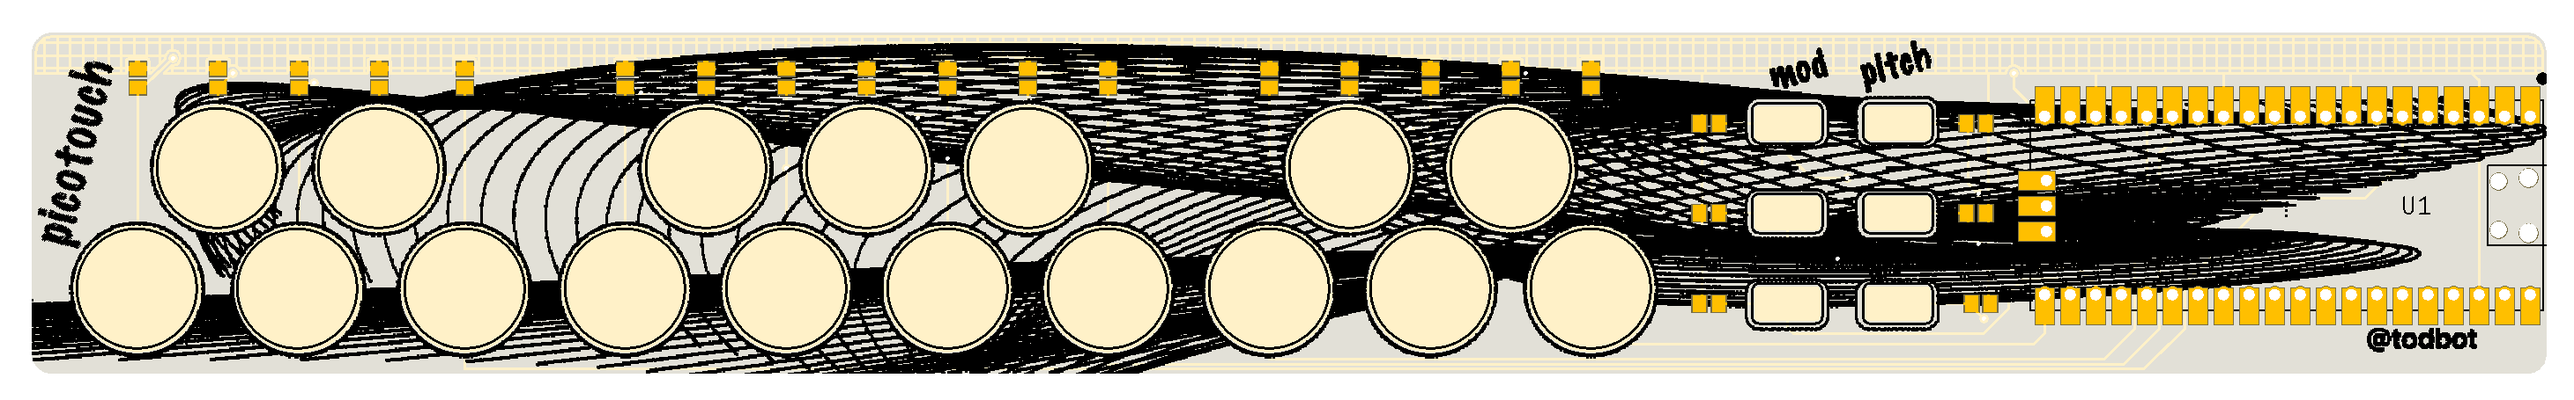
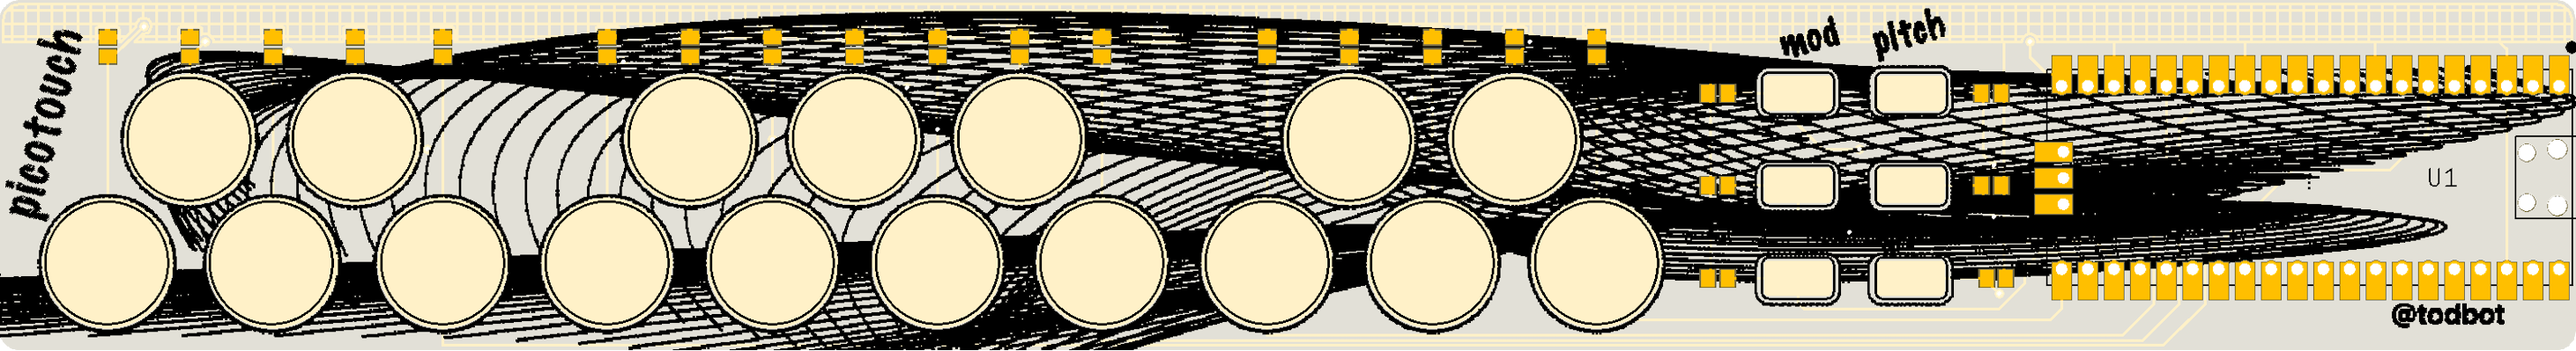
added picotouch_smd pic

diff --git a/README.md b/README.md
@@ -2,7 +2,7 @@
 
 Tiny capsense touch MIDI keyboard from a Raspberry Pi Pico
 
-<img width=700 src="./docs/picotouch_top1.png"/>
+<img width=700 src="./docs/picotouch_smd_top1.png"/>
 <img width=700 src="./docs/picotouch_top2.png"/>
 
 ## Demo
@@ -19,12 +19,12 @@ Also see videos in this Twitter thread : https://twitter.com/todbot/status/13824
 ## Installation
 
 - Install CircuitPython
-  - Hold down BOOT button while plugging in Pico to get RPI-RP2 drive 
+  - Hold down BOOT button while plugging in Pico to get RPI-RP2 drive
   - Download CircuitPython UF2 from https://circuitpython.org/board/raspberry_pi_pico/
   - Drag UF2 to RPI-RP2 drive. CircuitPython is now installed!
 
 - Install Needed CircuitPython libraries onto Pico
-  - If you have Python on your computer you can do:   
+  - If you have Python on your computer you can do:
   ```
   pip3 install circup
   circup install adafruit_midi adafruit_debouncer
